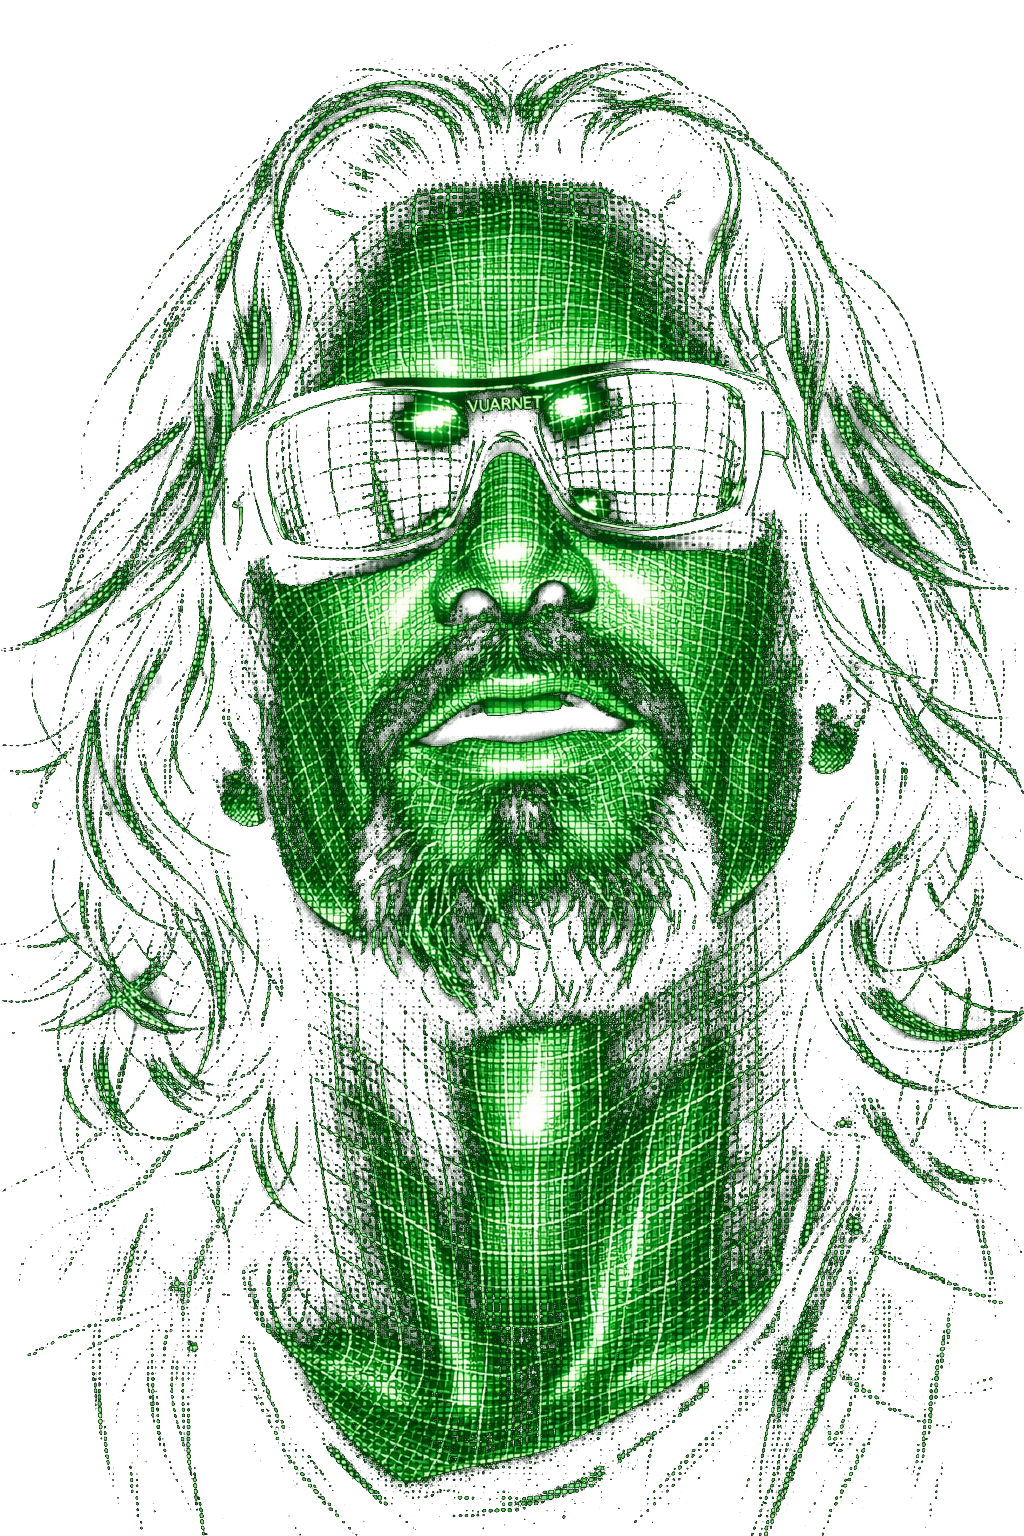
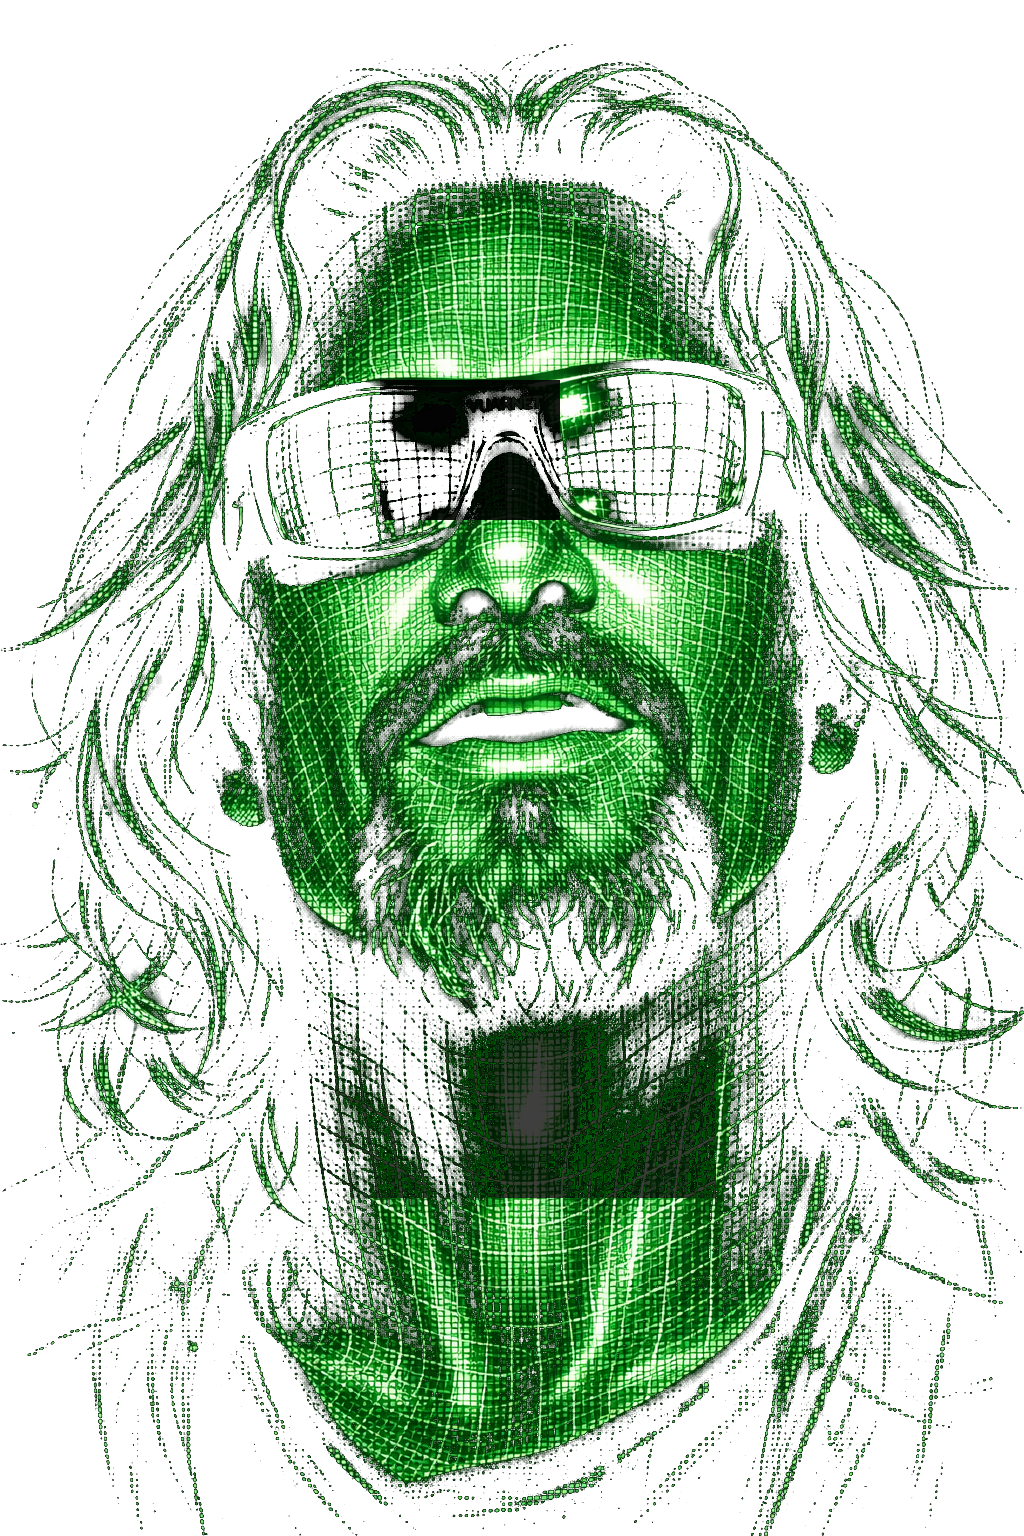
Clean up default Dude portrait for all UI/devices
- Remove lens flare/light bloom from chest area on idle image
- Remove VUARNET text from sunglasses on both idle and talk images
- Remove chin light flare from talk image
- Disable CRT flicker effect

Changed region(s): [[0.3125, 0.6562, 0.7188, 0.7812], [0.375, 0.25, 0.5625, 0.3438]]

diff --git a/index.html b/index.html
@@ -2106,21 +2106,9 @@ function updateBreathing() {
   }
 }
 
-// ── CRT ──
+// ── CRT (disabled) ──
 let crtGlitchX = 0;
-function crtEffects() {
-  if (isMobile) return; // Skip CRT on mobile to save resources
-  const layer = document.getElementById('face-layer');
-  if (Math.random() > 0.97) {
-    layer.style.opacity = String(0.7 + Math.random() * 0.3);
-    setTimeout(() => { layer.style.opacity = '1'; }, 25 + Math.random() * 60);
-  }
-  if (Math.random() > 0.994) {
-    crtGlitchX = (Math.random() - 0.5) * 10;
-    setTimeout(() => { crtGlitchX = 0; }, 35 + Math.random() * 80);
-  }
-  if (!isMobile) requestAnimationFrame(crtEffects);
-}
+function crtEffects() { }
 
 // ── MAIN LOOP ──
 let lastMainFrame = 0;
